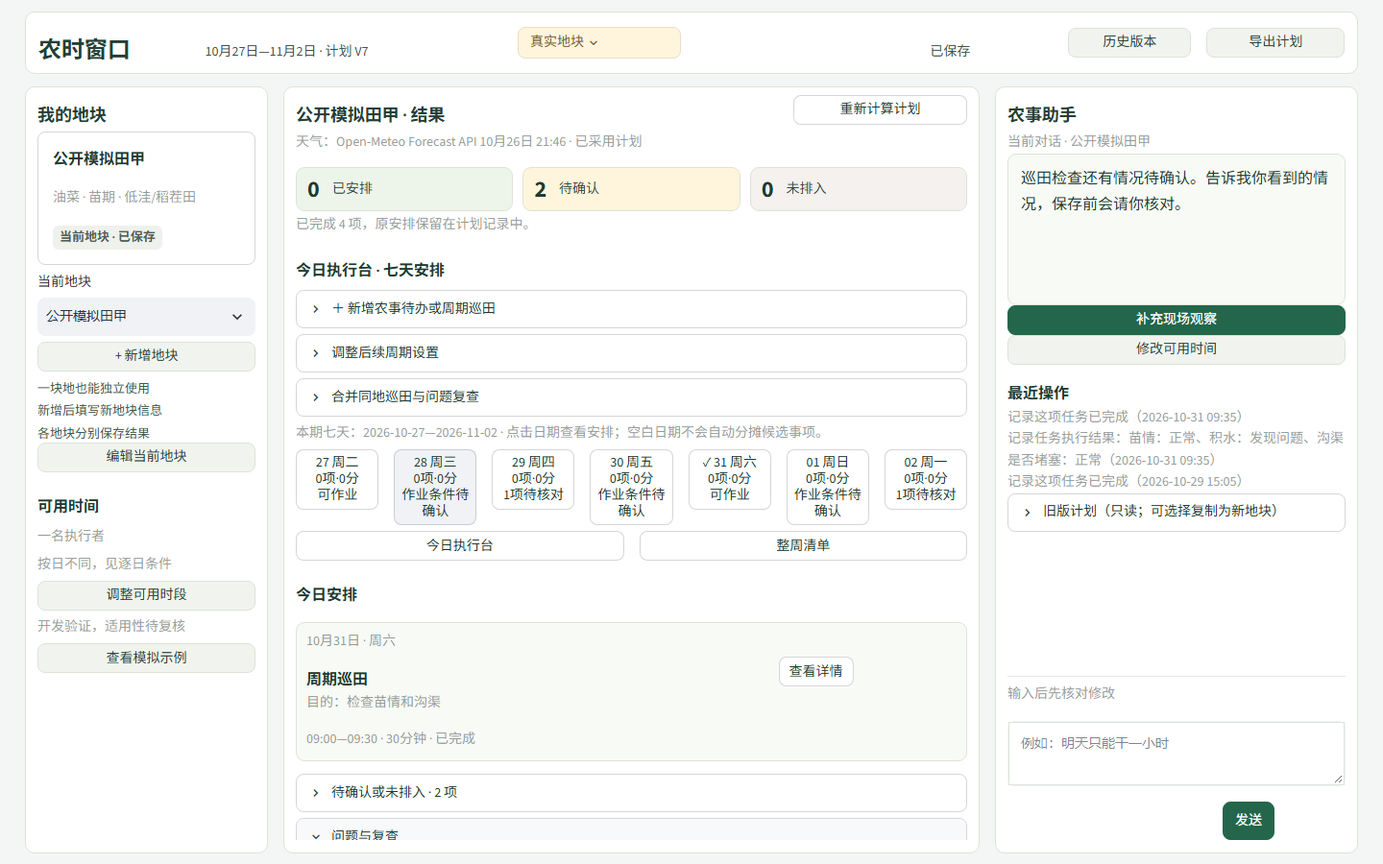
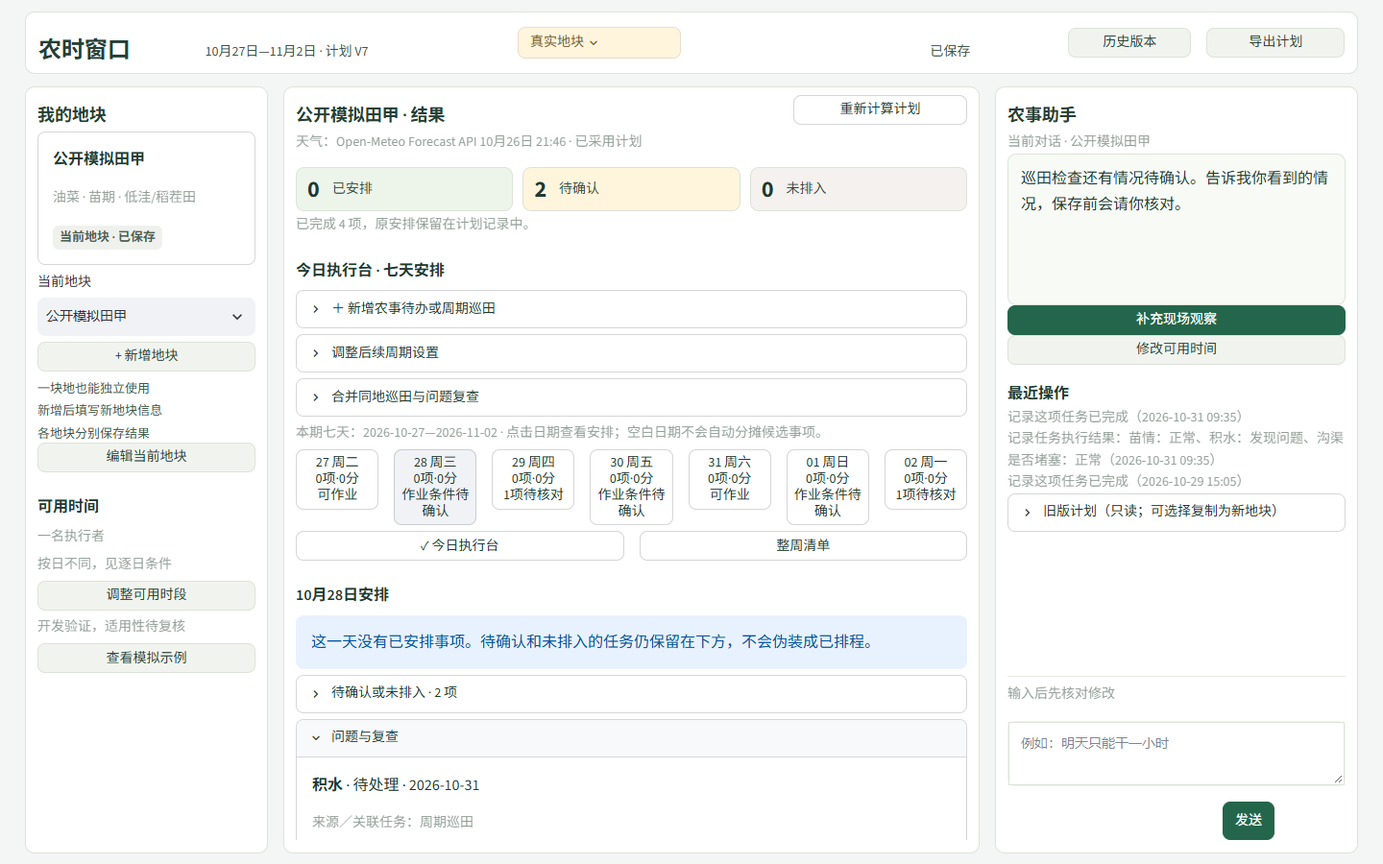
docs: record v14 regression and product acceptance

diff --git a/scripts/check_workbench_viewports.py b/scripts/check_workbench_viewports.py
@@ -1,6 +1,7 @@
 """Read-only browser smoke check for the current seven-day workbench.
 
 Requires Playwright and an already running Streamlit app with a saved field.
+Uses Playwright Chromium, or installed Microsoft Edge when its browser bundle is absent.
 It does not create fields, call the model, or change saved plans. Example:
 
     python scripts/check_workbench_viewports.py --url http://127.0.0.1:8501 \
@@ -11,8 +12,11 @@ from __future__ import annotations
 
 import argparse
 import json
+import re
 from pathlib import Path
 
+from playwright.sync_api import Error as PlaywrightError
+from playwright.sync_api import TimeoutError as PlaywrightTimeoutError
 from playwright.sync_api import sync_playwright
 
 VIEWPORTS = [(1440, 900), (1158, 714), (900, 844), (390, 844), (360, 800)]
@@ -27,7 +31,12 @@ def main() -> int:
 
     rows: list[dict[str, object]] = []
     with sync_playwright() as playwright:
-        browser = playwright.chromium.launch(headless=True)
+        try:
+            browser = playwright.chromium.launch(headless=True)
+        except PlaywrightError as exc:
+            if "Executable doesn't exist" not in str(exc):
+                raise
+            browser = playwright.chromium.launch(headless=True, channel="msedge")
         for width, height in VIEWPORTS:
             page = browser.new_page(viewport={"width": width, "height": height})
             page.goto(args.url, wait_until="networkidle")
@@ -37,16 +46,35 @@ def main() -> int:
             page.wait_for_timeout(600)
             body = page.locator("body").inner_text()
             has_workbench = "今日执行台" in body
-            week_button = page.get_by_role("button", name="整周清单")
-            week_button.click()
-            page.wait_for_timeout(600)
-            has_week = "整周清单" in page.locator("body").inner_text()
-            page.get_by_role("button", name="今日执行台").click()
+            ui_retries = 0
+            day_heading = page.get_by_role(
+                "heading", name=re.compile(r"^(今日|\d{2}月\d{2}日)安排$")
+            )
+            day_heading.wait_for(state="visible", timeout=15000)
+            for attempt in range(2):
+                try:
+                    page.get_by_role("button", name="整周清单").click(timeout=10000)
+                    day_heading.wait_for(state="hidden", timeout=10000)
+                    page.get_by_role("button", name="今日执行台").click(timeout=10000)
+                    day_heading.wait_for(state="visible", timeout=10000)
+                    break
+                except PlaywrightTimeoutError:
+                    if attempt:
+                        raise
+                    # A Streamlit rerender can replace the button tree between clicks.
+                    # Record the first failed attempt and retry in a new browser session.
+                    ui_retries = 1
+                    page.reload(wait_until="networkidle")
+                    if width < 1000:
+                        page.get_by_role("tab", name="计划结果").click()
+                    day_heading.wait_for(state="visible", timeout=15000)
+            has_week = True
             page.wait_for_timeout(600)
             dates = page.locator('[class*="st-key-date_strip"] [data-testid="stButton"] button')
             date_count = dates.count()
             if date_count >= 2:
                 dates.nth(1).click()
+                page.wait_for_timeout(800)
             page.screenshot(path=str(args.output_dir / f"workbench_{width}x{height}.png"))
             geometry = page.evaluate(
                 """() => ({
@@ -66,6 +94,7 @@ def main() -> int:
                     "workbench_visible": has_workbench,
                     "week_view_visible": has_week,
                     "date_buttons": date_count,
+                    "ui_retries": ui_retries,
                     "horizontal_overflow": geometry["content"] > geometry["viewport"] + 1,
                     "small_button_labels": geometry["smallButtons"],
                 }

diff --git a/STATUS.md b/STATUS.md
@@ -1,54 +1,46 @@
 # 农时窗口当前进度
 
-这是项目进度的唯一当前入口。冻结评测核对日期：2026-10-24（北京时间）；主工作区同步复核日期：2026-10-26。冻结摘要与 `reports/current_status.json` 同步；当前代码回归和工作区状态见下文。README、任务清单、旧报告和汇报材料从本页取数。判断新进度前先运行文末只读核查命令。
+这是项目进度的唯一当前入口。2026-10-27 核对 v14 冻结回归和七天工作台产品验收；核心摘要与 `reports/current_status.json` 同步。README、任务清单和旧报告从本页取数。判断新进度前先运行文末只读核查命令。
 
 <!-- CURRENT_STATUS:START -->
 **最新冻结结论：内部已知题自动阶段验收通过。**
 
-- 批次：`sealed-internal-regression-v12-20261024`。
-- 冻结代码：`fdc2908cd218078e8349c7a8d66dc11caf52acf7`。
+- 批次：`sealed-internal-regression-v14-20261027`。
+- 冻结代码：`5a65b592e3047d29357bdbd80bc5a942f47653c1`。
 - 证据范围：`internal_regression_after_v1`；不属于独立盲测或田间验证。
 
 | 组别 | 主案例通过 | 边界运行 |
 | --- | ---: | --- |
 | A 直接生成 | 1/30 | 未运行（协议仅对 C 组要求） |
-| B 模型加检索 | 7/30 | 未运行（协议仅对 C 组要求） |
+| B 模型加检索 | 9/30 | 未运行（协议仅对 C 组要求） |
 | C 完整 Agent | 30/30 | 18/18 通过 |
 
 C 组硬约束违规 0；边界 6/6 题均连续通过三次。
-冻结版本的自动测试记录为 444 项通过；这是对应版本的历史运行记录，不表示当前工作区已重新运行。
-公开证据：[本批次报告](reports/internal_regression_v12_20261024.md)。
+冻结版本的自动测试记录为 644 项通过；这是对应版本的历史运行记录，不表示当前工作区已重新运行。
+公开证据：[本批次报告](reports/internal_regression_v14_20261027.md)。
 <!-- CURRENT_STATUS:END -->
 
 ## 已经验证到哪里
 
-- 公开模拟农情下，真实 DeepSeek 与 Open-Meteo 参与建档、七天计划、完成与观察反馈、用户确认、自动预览、采用新版本、重启恢复、历史查看和导出。v12报告记录390像素窄屏连续操作。
-- v12主案例加边界运行的必需引用定位21/21、同服务商AI辅助语义支持41/41；这不是独立农艺专家评分。
-- 原始首次记录、失败批次和评分勘误分别保存。v12的原始输出与分组映射指纹已经核对；本次整理没有重新调用模型、重新评分或改写原始文件。
-- 后续[2026-10-24本地交互复查](reports/ui_interaction_review_20261024.md)记录首屏建档、390像素窄屏、保存与新增后返回原地的检查。该报告的测试总数属于修改后的工作区；没有重新封存v12或重验模型、天气及真实农情，不覆盖上述冻结版本的444项记录。
-- 费用仍为未知，不能由不完整token记录推算为零。单次耗时不等于长期性能承诺。
+- v14 的 90 个主案例与 18 次边界首次结果均已保存并核验指纹。C 主案例 30/30、边界 18/18、硬约束违规 0、必需引用 21/21、同服务商 AI 辅助语义支持 41/41。v13 原始 29/30 失败与修复关系另存，不覆盖首次评分。
+- 候选代码 `5a65b59` 的完整自动回归 **644 passed**，Ruff、格式、环境及差异检查通过。公开模拟农情下，桌面和窄屏浏览器分别走过真实 DeepSeek、真实天气、V1、反馈、自动预览、V2及后续版本、重启、历史与导出；五视口读屏复验无页面横向溢出。详见[当前产品验收报告](reports/product_acceptance_20261027.md)。
+- **完整产品验收仍为证据不足。** 全流程可复跑浏览器脚本、部分故障页面重试、合并出行和旧库重复迁移的实际操作、全面键盘及文字对比度审计尚缺。当前功能代码和内部分数不能代替这些材料。
+- 模型评测 token 汇总不完整，费用未知；真实接口单次联调不等于长期可用率。农业适用性未获独立专业签认。
 
 ## 工作区和证据版本必须分开
 
 | 位置/版本 | 角色与边界 |
 | --- | --- |
-| v12冻结提交 `fdc2908cd218078e8349c7a8d66dc11caf52acf7` | 上述自动验收和444项测试的对应源码版本 |
-| `codex/eval-reliability-v4` 工作树 | 保存后续可靠性修复与v12报告；名称带v4不表示只做到v4。当前源码不与v12冻结版本等同，不能直接继承冻结成绩 |
-| 主工作区 `main`、GitHub `main`、Gitee `master` | 已包含七天工作台交付提交 `63ba137`；本轮合并后在主工作区复验627项通过，Ruff、格式、环境及进度核查通过。当前代码仍不同于v12冻结源码，不继承其模型评分 |
-| 旧 `codex/eval-final-preparation`、`interaction-copy-sync` 等工作树 | 保留为独立历史/进行中工作区，未覆盖其文件；只读核查显示源码与冻结版本不同，部分历史工作树没有当前状态登记 |
+| v14 冻结提交 `5a65b59` | 当前内部已知题自动验收与 644 项自动测试的源码版本；后续文档和只读浏览器脚本不改变该运行时源码 |
+| `codex/weekly-task-content` | 七天工作台验收与修复工作树；公开证据、报告、状态更新在此形成，再同步主工作区 |
+| 主工作区 `main`、GitHub `main`、Gitee `master` | 以实际快进与远端核对结果为准；不得仅凭本工作树成绩宣称远端已经更新 |
+| 其他历史工作树 | 保留历史文件和源码；如果有 `reports/current_status.json`，同步当前入口，历史源码不继承 v14 成绩 |
 
-### 2026-10-26 七天任务与工作台开发工作树
-
-`codex/weekly-task-content` 基于 `509da4c` 增加周期巡田与稳定实例、任务执行内容、问题/复查关联、自定义待办、排程偏好、“今日执行台＋七天日期条”及用户确认的合并出行组（共用时段、成员独立结果）。针对已完成成员后续记录、分组改期占时、当前作业条件、新成员不得复用过去时段及跨地块 ID 隔离补充回归。该工作树自动测试 **627项通过**，Ruff、格式、环境与差异检查通过；主工作区通过一次真实服务层模拟验收：DeepSeek 1次成功请求、Open-Meteo Forecast 七天返回、V1/V2历史闭环及导出复读均成功。模型还产生一次参数无效的可选任务调用；地点来自离线地名索引，未验证在线地名搜索。完整结果与限制见[本轮实施报告](reports/workbench_v4_implementation_20261026.md)。进度核查确认 v12 原始封存指纹有效，同时提醒当前工作树不等同于冻结代码，因此不转移 v12 分数。模拟示例工作台可在本地浏览器打开；最后一轮截图接口超时，保存的五视口截图早于最终改动，不作为最终视觉复验。
-
-工作台交付提交 `63ba137` 已快进合入 `main`，并同步 GitHub `main` 与 Gitee `master`。服务层有真实模型与天气调用证据，但最终代码的五视口重验、浏览器完整V1到V2流程和新任务农艺适用性复核尚未完成。详情中的自动测试和模拟农情外部调用不表示田间验收通过。
-
-2026-10-26 的本地页面复核覆盖1158×714、1440×900和390×844；桌面三栏、窄屏页签均无横向溢出，用户打开的 `http://127.0.0.1:8504/?mode=demo` 可访问。仓库未配置云部署目标。该本地页面检查和593项回归不等同于模型、天气服务或田间验收。
-
-以上源码状态会随提交变化。具体HEAD、未提交源码和冻结版本差异，以 `check_progress.py --json` 的实时输出为准；只读核查已验证冻结原始证据，并明确提示当前源码与冻结版本不同。
+v12 的旧代码与历史成绩保存在[报告索引](reports/README.md)；v13 首次失败及 v14 通过也按独立批次保留。当前源码和每个工作区差异，以 `check_progress.py --json` 实时输出为准。
 
 ## 仍待完成
 
+- 本轮产品验收缺项按[逐项报告](reports/product_acceptance_20261027.md)补齐，完成后在当前代码上复验；不因 v14 模型分数通过而勾销页面与故障验收。
 - D01/D03：独立留出设计、双人人工复核/评分与分歧处理；现有已知题及8个公开模拟替代题不改称独立评测。
 - D04：至少5名独立体验者的正式体验记录及约定完成率。
 - A03/A04：七张候选规则的独立农艺适用性复核与正式签认；C11/C31限观察、C23限既有沟渠清理候选，C18/C19/C20/C24暂缓自动适用。
@@ -58,7 +50,7 @@ C 组硬约束违规 0；边界 6/6 题均连续通过三次。
 
 ## 旧材料如何使用
 
-[报告索引](reports/README.md)按批次保留v1—v12，旧失败不是今日结论，新通过也不覆盖旧失败。
+[报告索引](reports/README.md)按批次保留 v1—v14，旧失败不是今日结论，新通过也不覆盖旧失败。
 任务清单保留编号、负责人、原期限和要求，只引用本页的当前状态。20261022的两份Word和一份PPT是历史快照，其旧测试数与“尚未运行”描述不得直接复用于新版汇报。
 
 已完成20261024新版两份Word和一份PPT，见[材料版本说明](<C:/Users/HUAWEI/Desktop/homework/农时窗口_材料版本说明.md>)及[更新核查记录](reports/material_refresh_20261024.md)。研究方向和工程进度分别表述，所有带日期的汇报均为当时快照。

diff --git a/reports/product_acceptance_20261027.md b/reports/product_acceptance_20261027.md
@@ -1,0 +1,44 @@
+# 七天工作台当前阶段产品验收记录
+
+> 2026-10-27；公开模拟农情、隔离数据库与真实外部接口混合验收。当前冻结结论见 [STATUS.md](../STATUS.md)。本页不把内部回归当作独立农艺或田间证明。
+
+## 结论与版本
+
+**工程回归和 v14 内部自动阶段验收通过；完整产品验收仍为证据不足。** 本轮从 `4b10c5c` 出发，保留原有 review 修复，候选代码冻结于 `5a65b592e3047d29357bdbd80bc5a942f47653c1`。真实页面已完成桌面和 390 像素窄屏的公开模拟 V1→反馈→预览→V2/后续版本→重启恢复流程；五视口布局复验通过。全部故障分支的页面截图、全流程可复跑浏览器脚本、全面键盘与对比度审计尚无足够证据，因此不宣布整套产品验收通过。
+
+v13 首次回归 [29/30、未通过](internal_regression_v13_20261027.md)：将“预览调整”错当成写入请求，导致新预览缺失。修正意图归类后另建 v14，原始失败保留；v14 [C 组 30/30、边界 18/18](internal_regression_v14_20261027.md)。旧 v12 结果仍只对应其旧代码。
+
+## 可复现输入与证据口径
+
+[公开验收约束](product_acceptance_20261027/acceptance_cases.json)整理 RICH、SPARSE、UNKNOWN_FAILURE 三类输入与禁止行为，固定业务时钟；该文件在浏览器主线之后成稿，**不是预注册答案**，也不是唯一时间表或农艺标准答案。桌面与窄屏分别使用仓库外隔离 SQLite；模拟示例、迁移和封存各用独立数据。跨日页面使用固定北京时间，性能用单调时钟。未将私有题目、密钥或个人数据库入库。
+
+| ID / 对应要求 | 前置与操作 | 预期及本轮实际 | 证据与结论 |
+| --- | --- | --- | --- |
+| P01 建档与隔离 | 空白真实入口、模拟入口、保存、第四块地、切换和重开 | 真实入口为空白；模拟有标签且隔库；第四块不覆盖原计划 | [空白页](product_acceptance_20261027/blank_real_1440.png)、两条浏览器记录与 `tests/test_workbench_app.py`；**通过** |
+| P02 周期与任务实例 | 指定三次巡田、跨周、单次结果及取消、重启 | 稳定实例不重复；完成和取消按实例保存 | 浏览器 RICH 与 `tests/test_task_instances_v4.py`、`tests/test_workbench_v3.py`；**通过所测路径**。每隔若干天的页面编辑流程未单独走完，记**未运行** |
+| P03 执行内容与结果 | 任务详情、巡田结果、积水观察、维护仍积水、复查解决、再次发生 | 内容快照可读；完成和观察分别存；再次发生关联历史 | 桌面、窄屏数据库及 [反馈预览](product_acceptance_20261027/mobile_feedback_preview.png)；**通过所测路径**。仅保存普通积水观察不会自动建新问题，须从具体任务结果提交；这一区别需在产品说明中说清 |
+| P04 维护与自定任务 | 完整／缺目的、现场问题、需求；非现场任务 | 维护门槛不能由名称绕过；缺项保留待确认 | `tests/test_planning_v2.py`、`tests/test_agent_service.py` 与全套回归；**自动检查通过**，浏览器未逐项操作，记**页面未运行** |
+| P05 排程与合并 | 连续时段、期限、前置、完成锁定、均衡／集中、共享出行组 | 不重叠、不超时，组只计一次时长，成员独立结果 | `tests/test_planning_v2.py`、`tests/test_workbench_v3.py`；**自动检查通过**，合并出行的完整页面闭环记**未运行** |
+| P06 提案与采用 | 真模型档案／周期提案、现场结果、资源时间修改、预览、采用 | 确认前无事实；确认后事实先保存并自动预览；采用需点击；资源修改不改现场条件 | [提案](product_acceptance_20261027/agent_profile_proposal.png)、[V1预览](product_acceptance_20261027/v1_preview_1440.png)、[窄屏V2](product_acceptance_20261027/mobile_v2_adopted.png)；**通过所测路径** |
+| P07 并发、迁移、导出 | 重复提交、过期版本、保存后计算失败、历史和两种导出 | 不重写完成事实；旧计划可读；导出与采用版本一致 | 服务层回归、桌面 JSON/Markdown 下载与重启复读；**自动检查与所测浏览器路径通过**。旧库连续升级两次的独立验收记录尚缺，记**未运行** |
+| P08 依据一致性 | 同一引用在检索、详情、工具、导出中比较 | 暂缓依据不成为直接处置支撑；七卡正式采用状态不改 | 相关回归及页面详情；**自动检查通过**。独立农艺签认仍未完成 |
+
+上表“通过所测路径”只覆盖列出的步骤，不能提升为该组全部边界都已人工复验。完整 `pytest -q` 在候选提交得到 **644 passed**；Ruff 静态、格式、环境与差异检查通过。变更后仅调整了只读浏览器脚本的等待，另对该脚本单独运行 Ruff 与格式检查。
+
+## 页面与真实接口
+
+桌面 1440×900 和窄屏 390×844 均从公开模拟真实入口操作：自然语言建档和周期提案、确认查询点、真实 Open-Meteo 七日天气、采用 V1、巡田发现问题、既有沟渠维护仍积水、复查、自然语言缩减可用时间、采用后续计划、再次发生问题、添加第四块地、刷新和服务重启、历史与导出。窄屏首次周期工具参数失败与后续修复/重试分别保留，没有把首错删成首次成功。页面操作证据见上述截图；原始测试数据库和未脱敏原始调用仅在本机 `Documents/nongshi-eval/product-acceptance-20261026/`。
+
+真实 DeepSeek 工具调用覆盖档案、周期与时间提案；v14 真实模型回归还覆盖反馈和“预览调整”。真实 Forecast 返回 `Asia/Shanghai` 的 2026-10-27 至 11-02 完整七天。主流程使用的武汉查询点来自离线地名索引，**不算在线地名查询成功**；另在隔离模拟页面用真实 Open-Meteo Geocoding 查询 `Shanghai`，展示 10 个[在线候选](product_acceptance_20261027/online_location_choices.png)，手动选择上海市级查询点后[保存来源和坐标](product_acceptance_20261027/online_location_selected.png)。第一候选是其他同名地点，页面没有自动选它。模型请求标识与耗时保存在本机脱敏记录；评测 token 汇总不完整，费用未知。
+
+[五视口读屏脚本](../scripts/check_workbench_viewports.py)在最终候选页面点击“整周清单”、返回今日执行台并切换日期；[结果 JSON](product_acceptance_20261027/viewport_results.json)记录 1440×900、1158×714、900×844、390×844、360×800 均可见工作台和七个日期、无页面横向溢出。两个桌面视口的 Streamlit 重绘首次等待超时，各自动重载一次后通过；原始重试数保留在 JSON 中，未写成首次无故障。900 像素以下所测可见按钮均不小于 44px；桌面仍存在较小按钮，主要作为鼠标界面。另在 1440 宽下模拟 200% 缩放没有横向溢出，Tab 可移动到链接；尚未完成所有控件的键盘和逐项 4.5:1 对比度审计。五张[最终候选截图](product_acceptance_20261027/workbench_390x844.png)仅作视觉证据，不代替完整操作脚本。
+
+## 故障与性能
+
+独立进程中用模拟慢模型做真实 20 秒截止：**20.031 秒**返回超时，未迟到写入事实；缩短预算用例及无密钥、冲突、天气缺日等由自动回归覆盖。网络认证、限流、TLS、缓存过期、数据库锁等分支有模拟测试，但没有逐个保存当前版本的页面截图与重试记录，故障页面验收**证据不足**。
+
+隔离公开模拟数据库中，单块、三块、十块地分别预热后各运行 30 次顺序独立计算：中位数约 **36.77／47.38／88.76 毫秒**，P95 约 **40.09／52.23／93.87 毫秒**；三块 P95 低于 2 秒目标。这不代表多地联合排程或真实网络端到端性能。真实模型/天气仅留单次流程耗时，不报告样本不足的长期失败率。
+
+## 待补证据与外部验证
+
+要把“完整产品验收”由证据不足改成通过，仍需补齐：可复跑的两条完整浏览器脚本与首次失败回执；全部指定故障分支的页面重试、合并出行和旧库重复迁移的实际操作；完整键盘/高缩放/对比度核查。农业适用性签认、至少五人独立体验、异机复现和田间验证属于下一层证据，当前均**未完成**。内部已知题通过不能替代这些工作。

diff --git a/reports/internal_regression_v14_20261027.md b/reports/internal_regression_v14_20261027.md
@@ -1,0 +1,19 @@
+# v14 内部已知题回归与首次评分
+
+> 冻结验收快照：v14 / `5a65b59`。当前工作区与其他验收层级见 [STATUS.md](../STATUS.md)。
+
+**C 组通过内部自动阶段验收。** 冻结提交 `5a65b592e3047d29357bdbd80bc5a942f47653c1`，新增对“预览调整”只读意图的回归测试。v13 的失败和原始评分保留在[前一批报告](internal_regression_v13_20261027.md)。四份案例输入与约束沿用同一封存内容；没有按 v13 分数修改题目或评分标准。
+
+| 组别 | 30 个主案例首次判定 | 边界重复运行 |
+| --- | --- | --- |
+| A：直接模型生成 | 1 通过、20 失败、9 证据不足 | 协议不要求 |
+| B：同条件检索增强 | 9 通过、21 失败 | 协议不要求 |
+| C：完整 Agent | **30/30 通过** | **18/18**；6 题均三次通过 |
+
+108 条首次运行、108 个唯一结果 ID、108 条组别映射和盲化行已核对，原始运行指纹有效。盲化记录不含组别、调用次数、耗时或工具日志。88 条有主张记录调用同服务商模型复核，其余 20 条无适用主张并保留状态；只执行一次首次评分。
+
+C 组必需任务 33/33、反馈一致性 6/6、专属流程 69/69，硬约束违规 **0**。主案例引用定位 15/15，合并边界后 21/21；主案例语义支持 26/26，合并边界后 **41/41**，严重无依据建议 **0**、无关键待复核项。C 主案例本地运行耗时中位数 **2.15 秒**、P95 **8.45 秒**；46 次模型请求、90 次工具执行。token 汇总缺失，费用状态**未知**，不记为零。
+
[1 lines of base64/hex data omitted]
+
+该成绩是已知题的**内部回归**：包含 8 个公开模拟替代题，实施者接触过题目和过往成绩。AI 辅助语义判断不是独立专家签认；该批题目未覆盖新周期、复查、自定义任务和合并出行的全部体验，也不代表农艺有效性、真实农户成功率或田间验证。新功能验收另见[产品验收报告](product_acceptance_20261027.md)。

diff --git a/reports/README.md b/reports/README.md
@@ -6,7 +6,9 @@
 
 | 批次 | C 主案例 | C 边界 | 当时结论及入口 |
 | --- | --- | --- | --- |
-| v12 | 30/30 | 18/18，6题均三次通过 | [通过；当前登记的冻结批次](internal_regression_v12_20261024.md) |
+| v14 | 30/30 | 18/18，6题均三次通过 | [通过；当前登记的冻结批次](internal_regression_v14_20261027.md) |
+| v13 | 29/30 | 18/18 | [未通过；首次失败保留](internal_regression_v13_20261027.md) |
+| v12 | 30/30 | 18/18，6题均三次通过 | [通过；历史](internal_regression_v12_20261024.md) |
 | v11 | 30/30 | 18/18 | [通过；历史](internal_regression_v11_20261024.md) |
 | v8 / v9 / v10 | 29/30；30/30；30/30 | 均18/18 | [v8未通过，v9与v10通过](internal_regression_v8_v10_20261024.md) |
 | v5—v7 | 逐轮变化；v7勘误后27通过、1失败、2证据不足 | v7为18/18 | [未通过；首次与勘误分开](internal_regression_v5_v7_20261024.md) |
@@ -19,6 +21,7 @@
 
 ## 工程、页面与历史交接
 
+- [2026-10-27当前阶段产品验收](product_acceptance_20261027.md)：644项自动测试、桌面与窄屏公开模拟闭环、五视口截图、真实模型和天气、故障及性能证据；逐项列明尚缺的产品验收材料。
 - [2026-10-26七天任务工作台复审与验收](workbench_review_20261026.md)：记录本轮复审发现、回归修复、635项本地测试及页面检查边界；当前工程回归通过，但完整浏览器和外部验收仍未完成。
 - [2026-10-26七天任务与工作台优化实施](workbench_v4_implementation_20261026.md)：记录任务周期与实例、执行内容、问题关联、自定义待办、用户确认的合并出行、七天工作台及本轮自动/浏览器检查；明确在线地名搜索和完整页面验收仍待完成。
 - [2026-10-26真实服务层模拟验收记录](phase_acceptance_20261026.json)：公开模拟农情下的一次真实 DeepSeek 请求及 Open-Meteo 七天天气、V1/V2后端流程记录；含工具参数失败与离线地名索引限制。

diff --git a/reports/internal_regression_v13_20261027.md b/reports/internal_regression_v13_20261027.md
@@ -1,0 +1,15 @@
+# v13 内部已知题首次回归：未通过
+
+> 历史冻结快照；当前登记批次见 [STATUS.md](../STATUS.md)。
+
+冻结提交 `cff602513700b9f2a1cf7f4e8cfa53f3c5debd39`。原 30 个主案例、6 个边界案例及四份输入/约束文件沿用 v12；没有以产品输出生成参考答案。8 个公开模拟替代题和实施者已知题目的限制继续存在。
+
+| 组别 | 主案例首次结果 | 边界 |
+| --- | --- | --- |
+| A 直接生成 | 1 通过、20 失败、9 证据不足 | 不适用 |
+| B 加检索 | 5 通过、24 失败、1 证据不足 | 不适用 |
+| C 完整 Agent | **29 通过、1 失败** | 18/18；6 题均三次通过 |
+
+108 条首次记录与组别映射均有唯一结果 ID，完整性指纹有效。C 组硬约束违规 0，必需引用 21/21，AI 辅助语义支持 41/41，严重无依据建议 0；但 H26 的后续采用步骤失败，所以总体结论**未通过**。用户要求根据已保存反馈“预览调整”时，模型识别到预览，程序却把“调整”当成写入意图；没有生成指定的新预览，后续采用无法引用它。这是产品意图归类缺陷，不是参考答案要求唯一排程。
+
[1 lines of base64/hex data omitted]

diff --git a/任务清单_20261018_2.51am/农时窗口_任务清单_终稿推进版_20261018.md b/任务清单_20261018_2.51am/农时窗口_任务清单_终稿推进版_20261018.md
@@ -4,7 +4,7 @@
 
 项目当前完成状态、最新封存批次与待办统一在 [STATUS.md](../STATUS.md) 维护。
 本文件保留任务编号、负责人、原期限、依赖与验收要求；不再累积多轮“当前阶段收口记录”。
-2026-10-26 工作台优化代码及局部验证见[实施报告](../reports/workbench_v4_implementation_20261026.md)；未完成项和验收边界继续以 STATUS 为准。
+2026-10-27 七天工作台与 v14 内部回归见[产品验收报告](../reports/product_acceptance_20261027.md)；工程回归和内部模型门槛通过，完整产品验收仍有缺证项。未完成项和验收边界继续以 STATUS 为准。
 整理前的两份收口记录见 [历史报告索引](../reports/README.md)。
 
 ## 2026-10-18 原计划与后续任务定义
